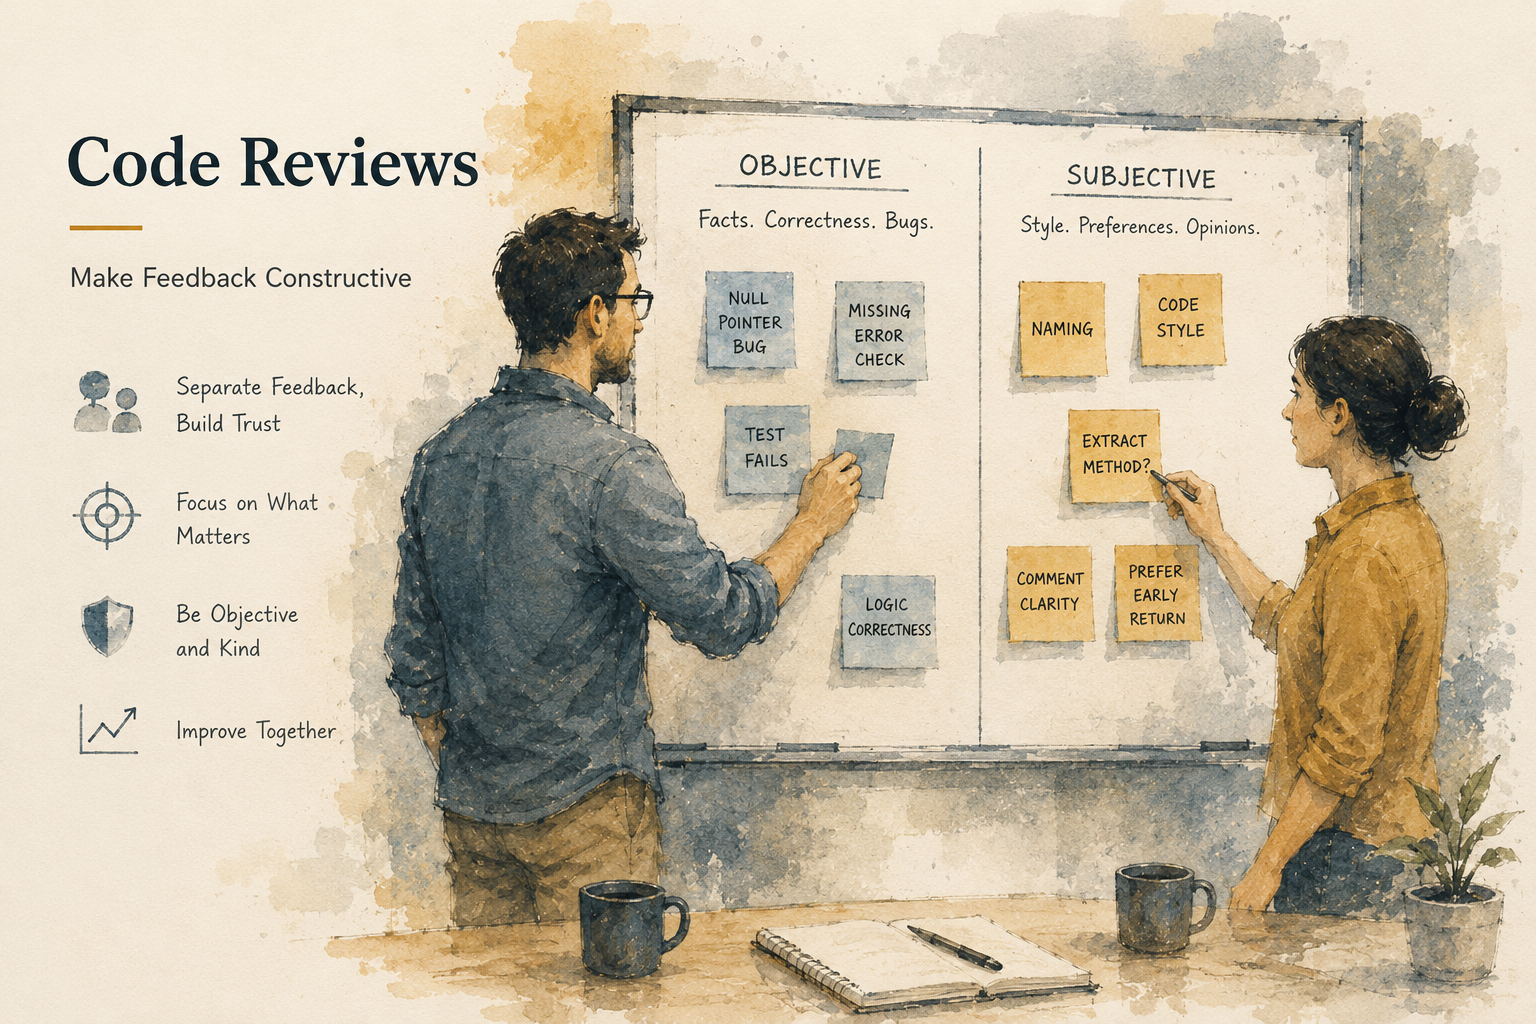
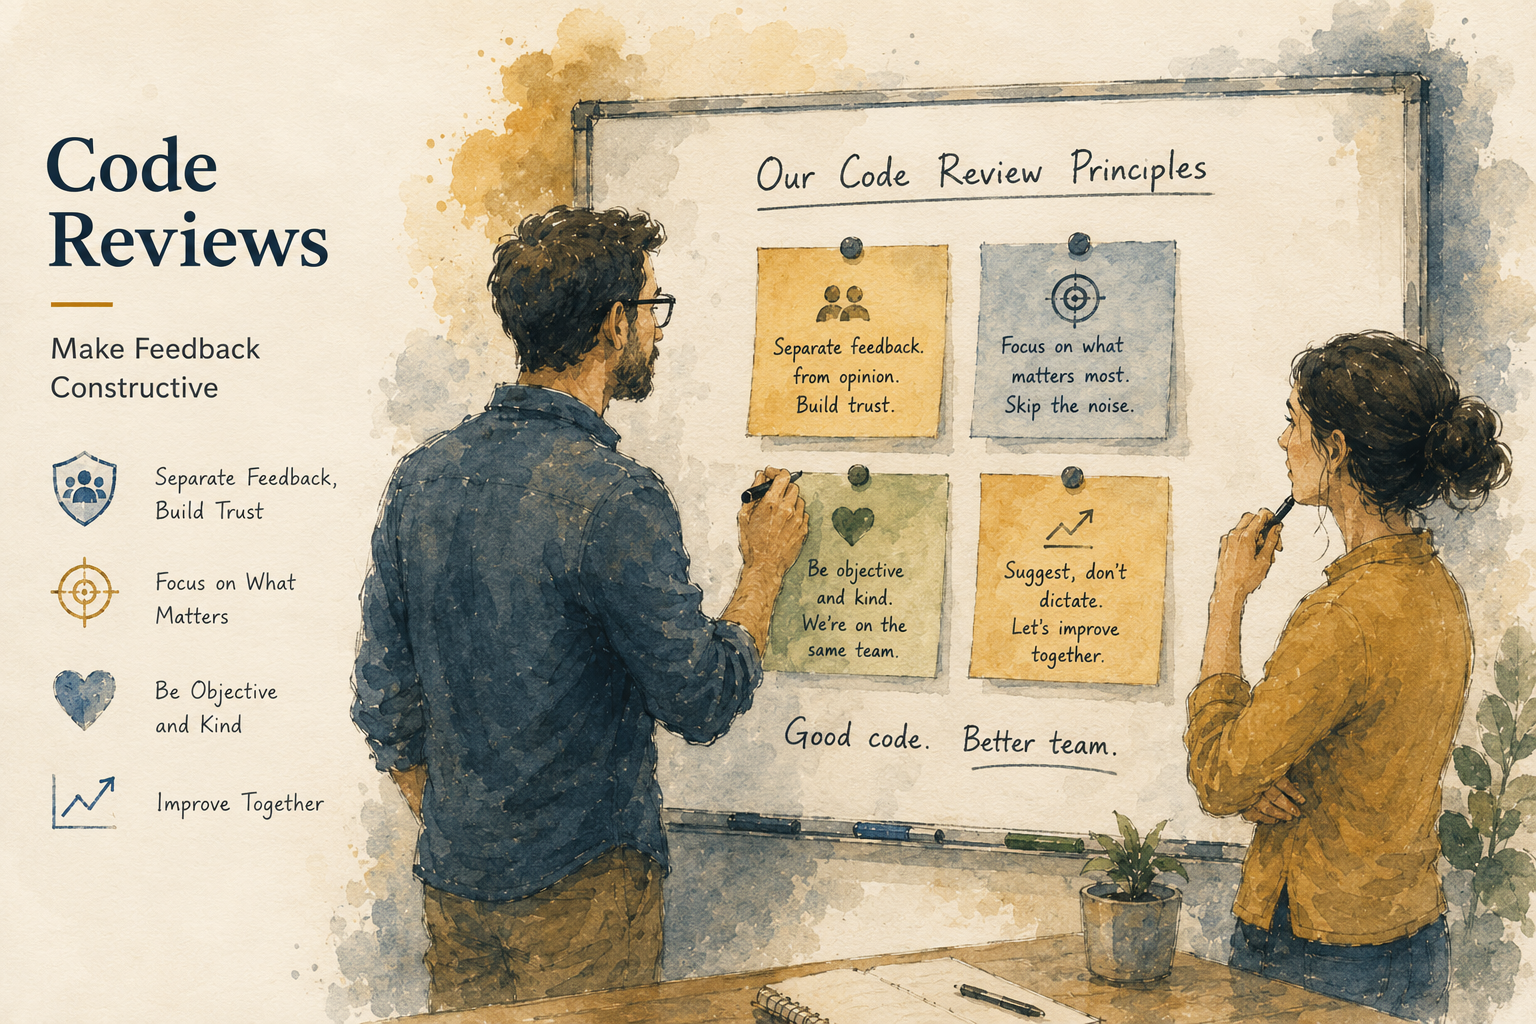
working on images

diff --git a/post/code-reviews/index.html b/post/code-reviews/index.html
@@ -804,7 +804,7 @@ the New Relic Insights tool as well as several other products." /><meta property
 
 <div class="article-header article-container featured-image-wrapper mt-4 mb-4" style="max-width: 720px; max-height: 480px;">
   <div style="position: relative">
-    <img src="/post/code-reviews/featured_hu_923986101d8784d9.webp" width="720" height="480" alt="" class="featured-image">
+    <img src="/post/code-reviews/featured_hu_7950354f1996db24.webp" width="720" height="480" alt="" class="featured-image">
     
   </div>
 </div>

diff --git a/category/development-process/index.html b/category/development-process/index.html
@@ -900,7 +900,7 @@ the New Relic Insights tool as well as several other products.</p>
       
       
       <a href="/post/code-reviews/" >
-        <img src="/post/code-reviews/featured_hu_58f763efb7e64917.webp" height="100" width="150"
+        <img src="/post/code-reviews/featured_hu_ed81f544e7969058.webp" height="100" width="150"
             alt="Creating Simple and Effective Guidelines for Code Reviews" loading="lazy">
       </a>
     

diff --git a/category/teams/index.html b/category/teams/index.html
@@ -900,7 +900,7 @@ the New Relic Insights tool as well as several other products.</p>
       
       
       <a href="/post/code-reviews/" >
-        <img src="/post/code-reviews/featured_hu_58f763efb7e64917.webp" height="100" width="150"
+        <img src="/post/code-reviews/featured_hu_ed81f544e7969058.webp" height="100" width="150"
             alt="Creating Simple and Effective Guidelines for Code Reviews" loading="lazy">
       </a>
     

diff --git a/post/page/2/index.html b/post/page/2/index.html
@@ -998,7 +998,7 @@ the New Relic Insights tool as well as several other products.</p>
       
       
       <a href="/post/code-reviews/" >
-        <img src="/post/code-reviews/featured_hu_58f763efb7e64917.webp" height="100" width="150"
+        <img src="/post/code-reviews/featured_hu_ed81f544e7969058.webp" height="100" width="150"
             alt="Creating Simple and Effective Guidelines for Code Reviews" loading="lazy">
       </a>
     
